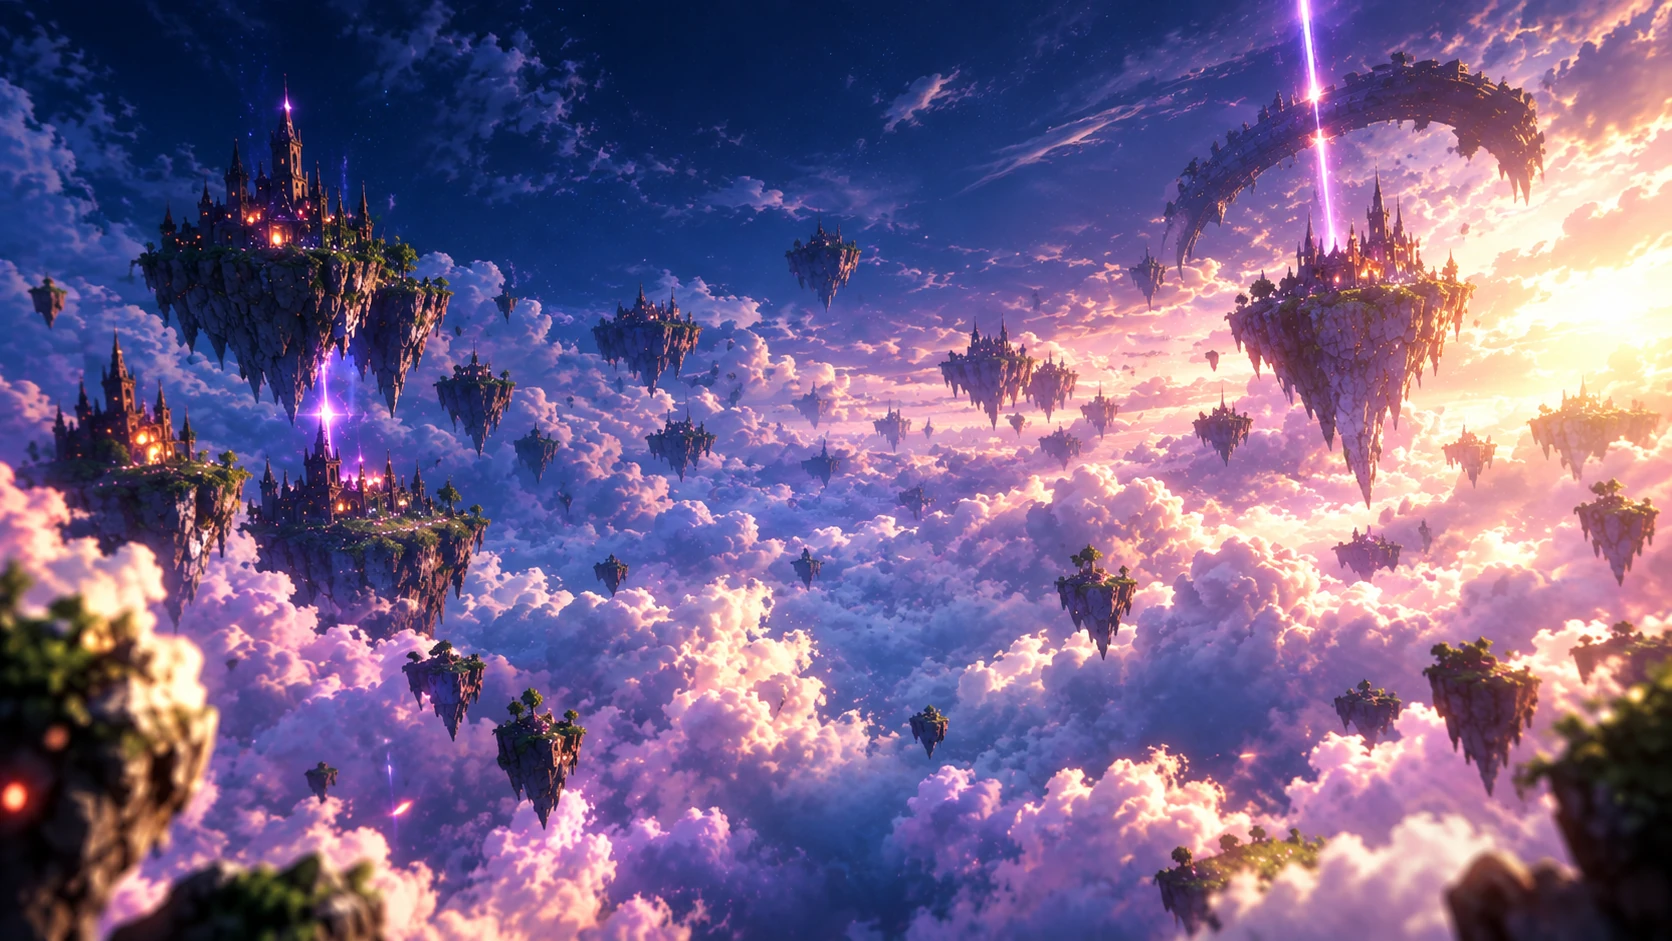
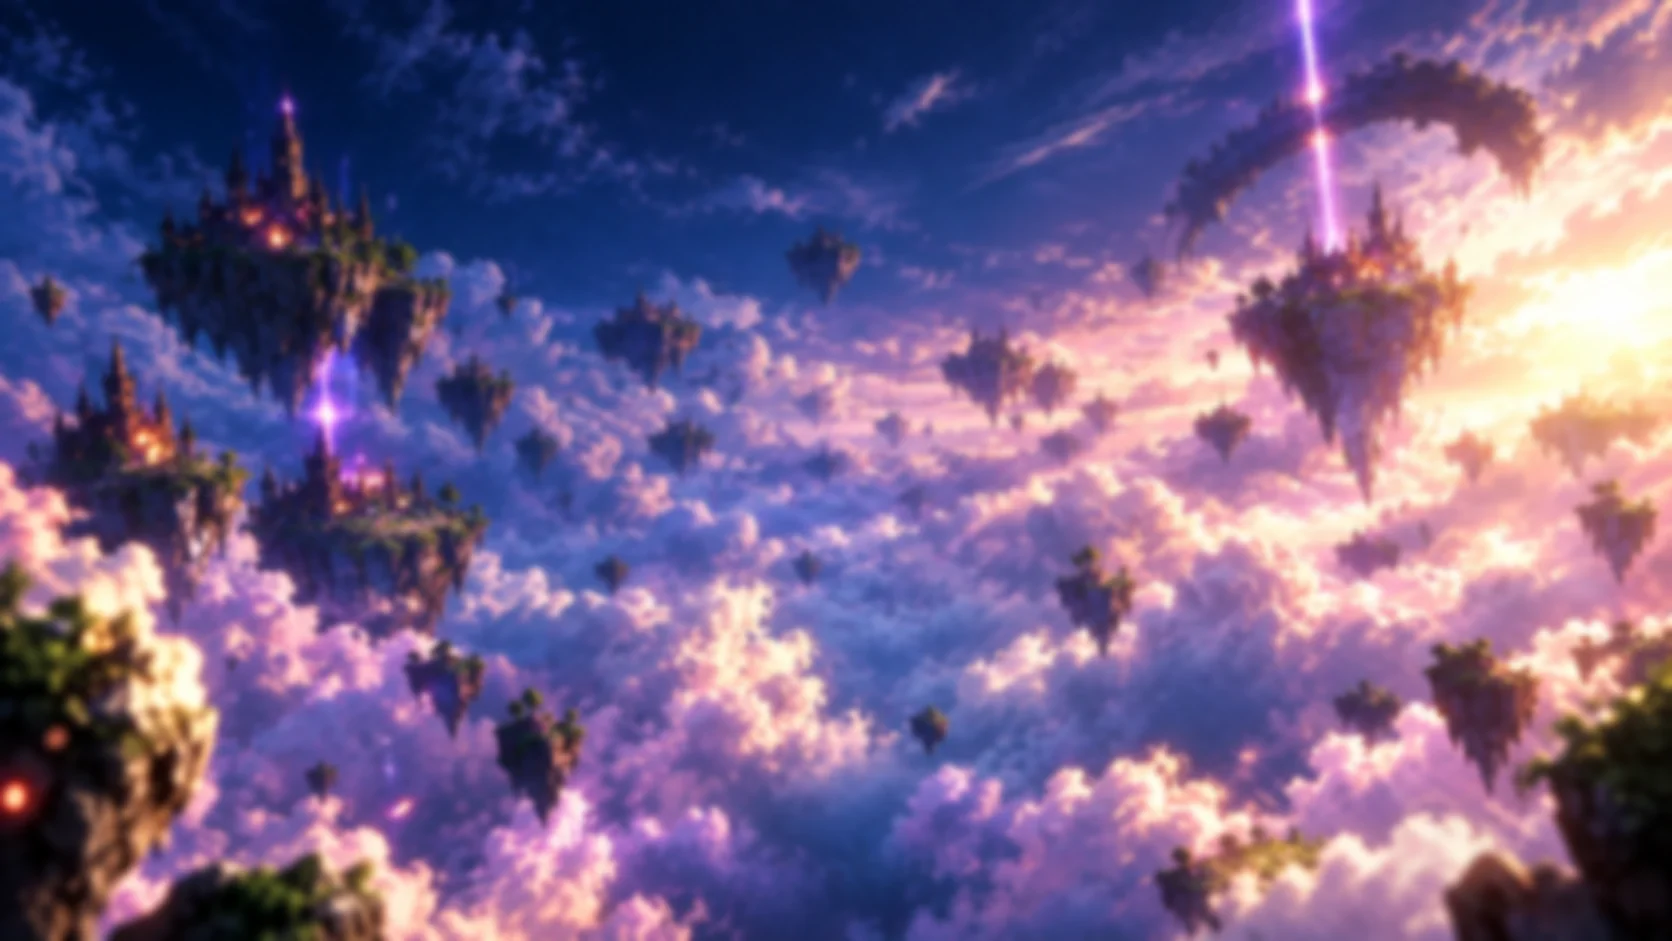
배경은 흐리고 어둡게, 경기장 테두리는 제멋대로 자란 수정 덩어리로
배경에 눈이 너무 간다는 말에 그림에 흐림을 살짝 구워 넣고 어둠 막을
0.35 에서 0.5 로 올렸다. CSS filter 는 캔버스까지 흐리고, 따로 층을 두면
폰이 매 프레임 번짐을 다시 합성해서 파일에 구웠다. 파일도 292→87KB.

테두리의 이십면체는 주사위를 줄 세운 것 같았다. 끝이 뾰족한 육각기둥
결정을 한 자리에 여러 개 뭉치고(가운데는 곧게, 둘레는 바깥으로 벌어지게),
덩어리마다 간격·크기·개수·반지름을 따로 뽑았다. 뿌리는 짙은 보라에서
끝으로 갈수록 희고, 큰 덩어리 밑엔 돌을 박았다. 드로우콜은 둘 그대로다.

diff --git a/public/js/scene.js b/public/js/scene.js
@@ -217,43 +217,93 @@ function buildEdgeStones() {
   return group;
 }
 
-// 풀숲 가장자리. 받은 섬 그림처럼 흰 수정과 작은 회색 돌을 번갈아 두른다.
-// 수정은 스스로 은은히 빛나야 밤 무대에서 수정으로 읽힌다 — 안 그러면 흰 돌이다.
-// 무대 끝을 알려 주는 표시라 바위와 같은 자리(가장자리 바로 안쪽)에 서고,
-// 가까운 쪽 가장자리에서 캐릭터 발을 가리지 않게 키를 낮게 둔다.
+// 풀숲 가장자리. 받은 섬 그림처럼 수정 덩어리와 돌을 두른다.
+//
+// 처음엔 이십면체 하나씩을 똑같은 간격으로 세웠더니 주사위를 줄 세운 것
+// 같았다. 진짜 수정은 한 자리에서 여러 결정이 제각각 기울어 뭉쳐 자라고,
+// 덩어리 사이 간격도 크기도 들쭉날쭉하다. 그래서:
+//   - 결정 하나 = 끝이 뾰족한 육각기둥. 뿌리는 짙은 보라, 끝으로 갈수록 희게.
+//   - 한 바퀴를 돌며 간격을 매번 새로 뽑아 덩어리를 심는다. 큰 덩어리는
+//     가운데 결정이 곧게 서고 둘레 결정이 바깥으로 벌어진다. 뿌리엔 돌을 박는다.
+//   - 가장자리 선에서 조금 안쪽이거나 끝에 걸치게 반지름도 흔든다.
+// 무대 끝을 알려 주는 표시이기도 해서 덩어리 사이가 너무 비지 않게 두고,
+// 가까운 쪽에서 캐릭터를 너무 가리지 않게 가장 큰 결정도 키 1.5 에서 멈춘다.
+// 결정·돌 각각 인스턴싱이라 몇 개를 심든 드로우콜은 둘이다.
 function buildEdgeCrystals() {
   const group = new THREE.Group();
-  const count = 26;
+  const shards = [];
+  const rocks = [];
 
-  // 이십면체를 조금만 세로로 늘린다. 팔면체는 뾰족한 가시처럼 보여 그림 속
-  // 굵직한 보석과 달랐다. 면이 또렷해야(flatShading) 깎은 보석처럼 번쩍인다.
-  const gemMat = new THREE.MeshStandardMaterial({
-    color: 0xffffff, emissive: 0x6d58d8, emissiveIntensity: 0.45,
-    roughness: 0.18, metalness: 0.1, flatShading: true
+  let a = rnd(0, Math.PI * 2);
+  const end = a + Math.PI * 2 - 0.12;
+  while (a < end) {
+    const r = ARENA_RADIUS + rnd(-0.3, 0.05);
+    const big = Math.random() < 0.5;
+    const n = big ? 3 + Math.floor(Math.random() * 3) : 1 + Math.floor(Math.random() * 2);
+    const tall = big ? rnd(0.75, 1) : rnd(0.35, 0.6);
+    for (let k = 0; k < n; k++) {
+      const h = tall * (k === 0 ? 1 : rnd(0.4, 0.8));
+      shards.push({
+        a: a + rnd(-0.04, 0.04), r: r + rnd(-0.2, 0.15), h, w: h * rnd(0.7, 1),
+        // 가운데 결정은 곧게, 둘레는 바깥 쪽으로 부채처럼 벌어진다
+        tilt: k === 0 ? rnd(0, 0.25) : rnd(0.35, 0.8), fan: rnd(-1.2, 1.2)
+      });
+    }
+    if (big || Math.random() < 0.5) rocks.push({ a: a + rnd(-0.05, 0.05), r: r + rnd(-0.05, 0.15), s: rnd(0.3, 0.55) });
+    if (Math.random() < 0.6) rocks.push({ a: a + rnd(0.06, 0.16), r: ARENA_RADIUS + rnd(-0.25, 0.05), s: rnd(0.15, 0.3) });
+    a += rnd(0.1, 0.3);
+  }
+
+  // 결정 도형: 높이 1 짜리 육각기둥 + 0.55 짜리 뾰족한 끝. 뿌리가 원점이라
+  // 기울이고 늘려도 땅에 박힌 자리에서 자란다. 바닥은 땅속이라 뚫어 둔다.
+  const body = new THREE.CylinderGeometry(0.5, 0.56, 1, 6, 1, true).translate(0, 0.5, 0);
+  const tip = new THREE.ConeGeometry(0.5, 0.55, 6, 1, true).translate(0, 1.275, 0);
+  const shardGeo = mergeTwo(body, tip);
+  const pos = shardGeo.attributes.position;
+  const col = new Float32Array(pos.count * 3);
+  for (let i = 0; i < pos.count; i++) {
+    const t = Math.min(1, Math.max(0, pos.getY(i) / 1.55));
+    col.set([0.42 + 0.58 * t, 0.34 + 0.66 * t, 0.78 + 0.22 * t], i * 3);
+  }
+  shardGeo.setAttribute('color', new THREE.BufferAttribute(col, 3));
+
+  const shardMat = new THREE.MeshStandardMaterial({
+    vertexColors: true, emissive: 0x4b35b8, emissiveIntensity: 0.55,
+    roughness: 0.14, metalness: 0.2, flatShading: true
   });
-  group.add(scatter(new THREE.IcosahedronGeometry(1, 0), gemMat, count,
-    (i, pos, rot, scl) => {
-      const a = (i / count) * Math.PI * 2 + rnd(-0.04, 0.04);
-      pos.set(Math.cos(a) * (ARENA_RADIUS - 0.1), rnd(0.08, 0.16), Math.sin(a) * (ARENA_RADIUS - 0.1));
-      rot.set(rnd(-0.3, 0.3), rnd(0, 6.3), rnd(-0.3, 0.3));
-      const size = rnd(0.38, 0.6);
-      scl.set(size, size * rnd(1.05, 1.3), size);
+  const up = new THREE.Vector3(0, 1, 0);
+  const lean = new THREE.Quaternion();
+  const spin = new THREE.Quaternion();
+  const axis = new THREE.Vector3();
+  group.add(scatter(shardGeo, shardMat, shards.length,
+    (i, p, rot, scl) => {
+      const c = shards[i];
+      p.set(Math.cos(c.a) * c.r, rnd(-0.12, -0.02), Math.sin(c.a) * c.r);
+      // 기울 방향(바깥 + 부채 각)에 수직인 축으로 눕힌 뒤, 제 축으로 한 번 돌린다
+      const th = c.a + c.fan;
+      axis.set(Math.sin(th), 0, -Math.cos(th));
+      lean.setFromAxisAngle(axis, c.tilt);
+      spin.setFromAxisAngle(up, rnd(0, Math.PI));
+      rot.setFromQuaternion(lean.multiply(spin));
+      scl.set(c.w, c.h, c.w);
     },
-    // 흰색에 옅은 푸른·보랏빛을 조금씩 — 그림 속 수정이 한 색이 아니다
-    () => new THREE.Color().setHSL(rnd(0.6, 0.78), rnd(0.15, 0.45), rnd(0.82, 0.95))
+    // 결정마다 푸른빛·분홍빛을 조금씩 — 그림 속 수정이 한 색이 아니다
+    () => new THREE.Color().setHSL(rnd(0.66, 0.82), rnd(0.2, 0.55), rnd(0.8, 0.95))
   ));
 
-  // 수정 사이 작은 회색 돌. 바위와 같은 방법으로 찌그러뜨린다.
-  const pebble = new THREE.DodecahedronGeometry(1, 1);
-  rockify(pebble, 0.55, 7);
-  const pebbleMat = new THREE.MeshStandardMaterial({ color: 0x8d8a86, roughness: 0.95, flatShading: true });
-  group.add(scatter(pebble, pebbleMat, count,
-    (i, pos, rot, scl) => {
-      const a = ((i + 0.5) / count) * Math.PI * 2 + rnd(-0.05, 0.05);
-      pos.set(Math.cos(a) * (ARENA_RADIUS - 0.12), rnd(-0.06, 0.04), Math.sin(a) * (ARENA_RADIUS - 0.12));
+  const rockGeo = new THREE.DodecahedronGeometry(1, 1);
+  rockify(rockGeo, 0.55, 7);
+  const rockMat = new THREE.MeshStandardMaterial({ color: 0xffffff, roughness: 0.95, flatShading: true });
+  group.add(scatter(rockGeo, rockMat, rocks.length,
+    (i, p, rot, scl) => {
+      const o = rocks[i];
+      p.set(Math.cos(o.a) * o.r, -o.s * 0.25, Math.sin(o.a) * o.r);
       rot.set(rnd(0, 0.6), rnd(0, 6.3), rnd(0, 0.6));
-      const size = rnd(0.2, 0.34);
-      scl.set(size * rnd(0.9, 1.3), size * rnd(0.6, 0.9), size * rnd(0.9, 1.3));
+      scl.set(o.s * rnd(0.9, 1.4), o.s * rnd(0.5, 0.8), o.s * rnd(0.9, 1.4));
+    },
+    () => {
+      const v = rnd(0.55, 0.75);
+      return new THREE.Color(v, v * rnd(0.95, 1), v * rnd(1, 1.08));
     }
   ));
   return group;

diff --git a/public/style.css b/public/style.css
@@ -37,17 +37,19 @@ html, body {
   width: 100%;
   height: 100%;
   /* 기본 스킨 하늘(렌더러가 투명이라 비쳐 보인다). 잘림은 cover 가 화면마다 알아서 한다.
-     어둠을 한 겹 덮는 건 붉은 전기선이 밝은 구름에 묻히지 않게 하려는 것 — 선이
-     안 보이면 0.35 를 올린다. 그림이 없을 땐 예전 하늘 가운데 색이 대신 깔린다. */
+     어둠을 한 겹 덮는 건 붉은 전기선이 밝은 구름에 묻히지 않게, 그리고 눈이 배경보다
+     무대로 가게 하려는 것이다 — 배경이 튀면 0.5 를 올린다. 그림 파일에는 흐림을
+     미리 구워 뒀다(CSS filter 는 캔버스까지 흐리고, 따로 층을 두면 폰이 매 프레임
+     번짐을 다시 합성한다). 그림이 없을 땐 예전 하늘 가운데 색이 대신 깔린다. */
   background:
-    linear-gradient(rgba(5, 6, 15, 0.35), rgba(5, 6, 15, 0.35)),
+    linear-gradient(rgba(5, 6, 15, 0.5), rgba(5, 6, 15, 0.5)),
     #1b2c3a url("img/ingame-bg.webp") center / cover no-repeat;
 }
 /* 폰은 회선 때문에 절반 폭(1/3 무게)을 준다. 기준은 타이틀 배경과 같다. */
 @media (max-width: 900px) {
   #stage {
     background-image:
-      linear-gradient(rgba(5, 6, 15, 0.35), rgba(5, 6, 15, 0.35)),
+      linear-gradient(rgba(5, 6, 15, 0.5), rgba(5, 6, 15, 0.5)),
       url("img/ingame-bg-sm.webp");
   }
 }
